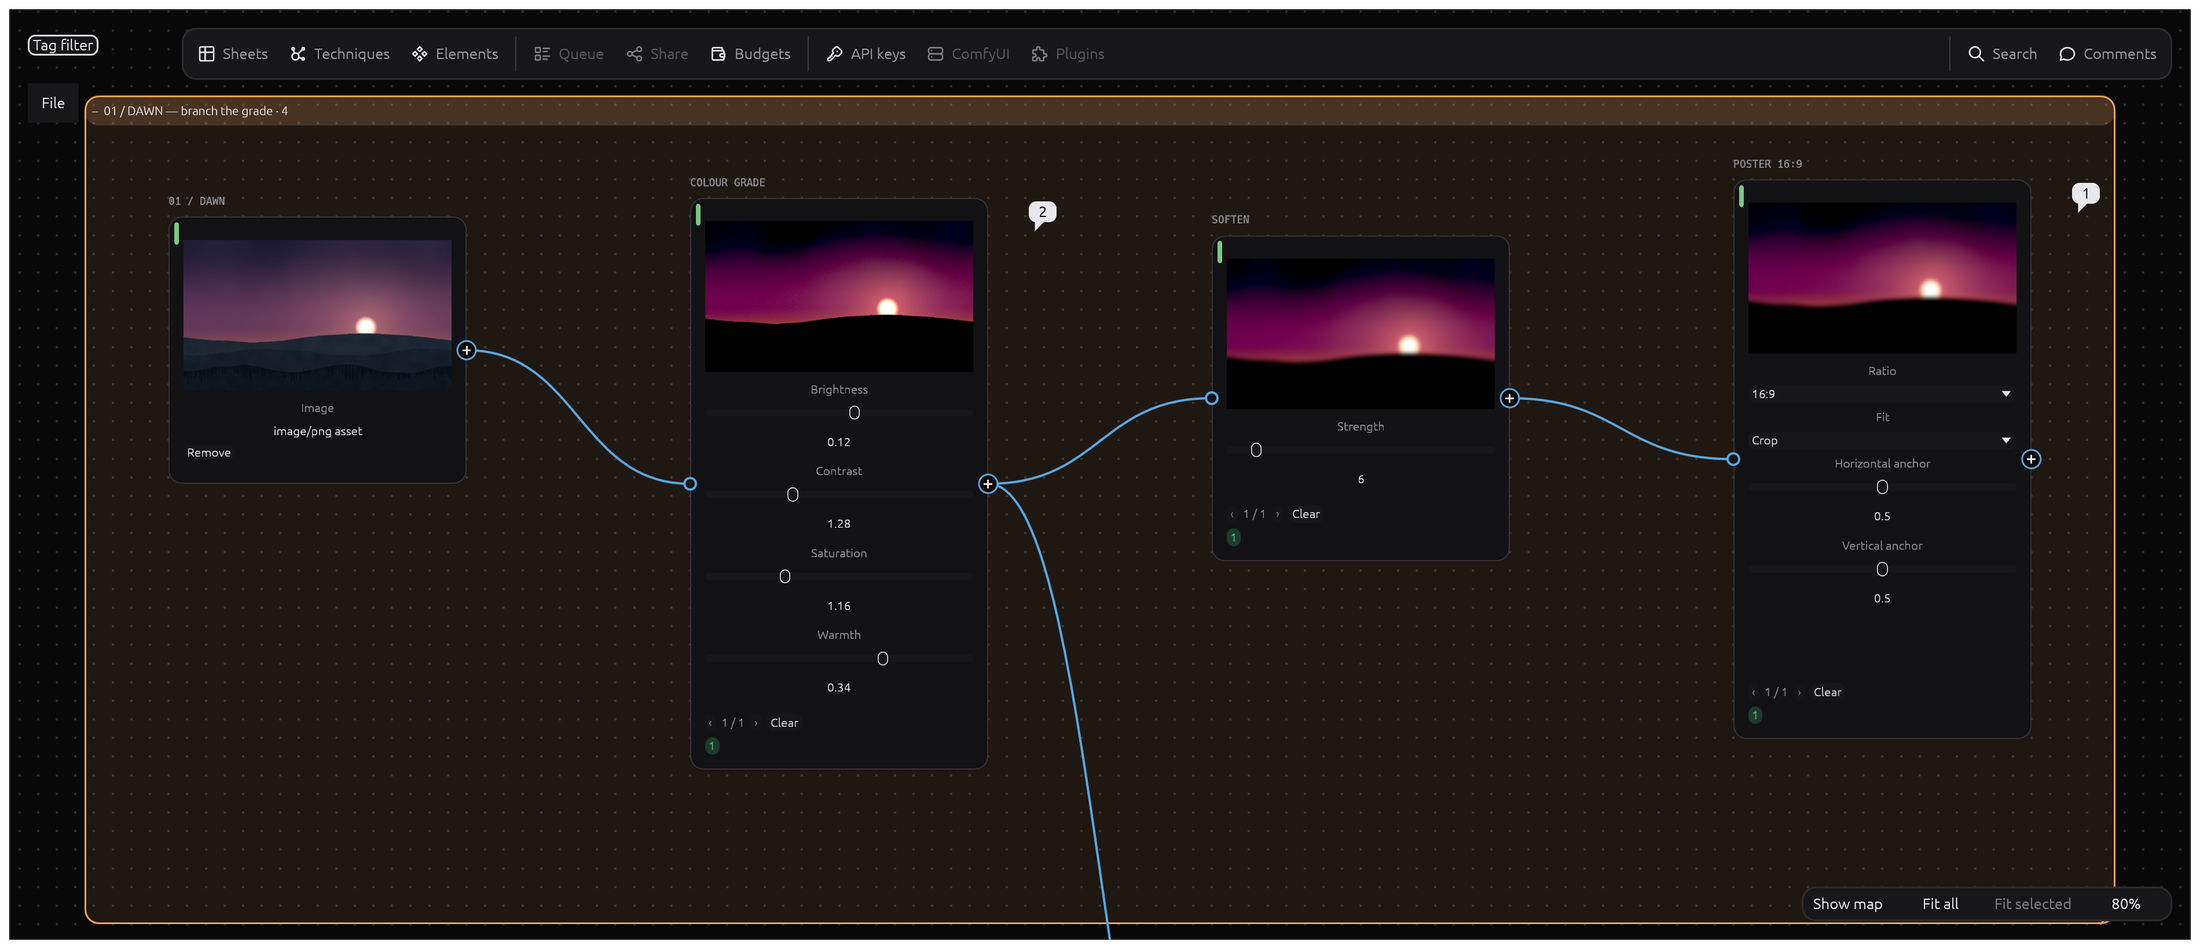
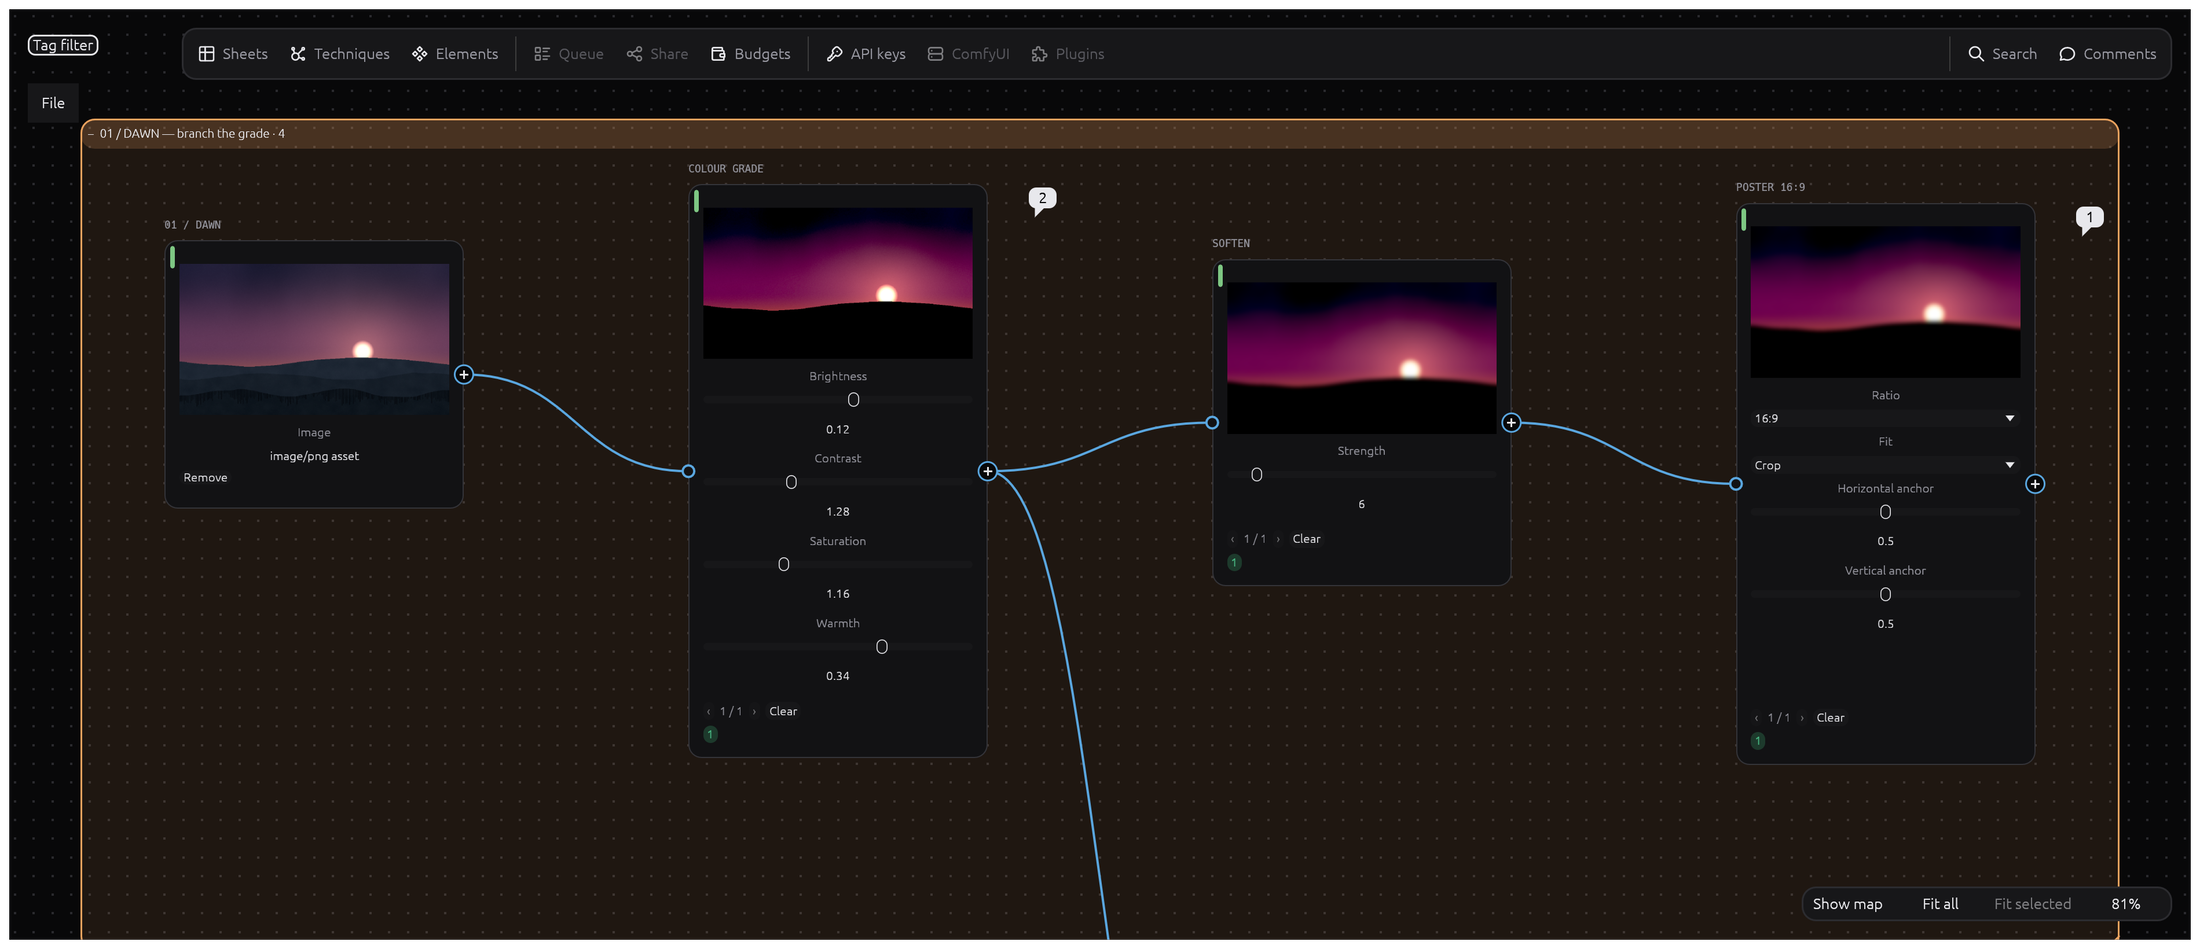
Fit the Colour grade card inside its field and re-render the gallery
tools/eyecandy's structural test caught that the Colour grade card,
with its reserved preview and history rows, ran 28 units past the
bottom of the dawn field. Move it up 40 units (y 100 -> 60), which
keeps it below the 48-unit field header, and re-render all 13 frames.
All 7 eyecandy tests pass, and every re-rendered frame was reviewed
against its caption.

Claude-Session: https://claude.ai/code/session_01QKNswjqGkZXueLKkHKZ4ev

diff --git a/tools/eyecandy/src/scene.rs b/tools/eyecandy/src/scene.rs
@@ -233,7 +233,7 @@ pub fn showcase(plates: &[(&str, Vec<u8>)]) -> Result<Stage, Fail> {
         stage.import_image(key, name, bytes, -1_020.0, y)?;
         stage.title(key, title)?;
     }
-    stage.node(6, "image.grade", -460.0, 100.0)?;
+    stage.node(6, "image.grade", -460.0, 60.0)?;
     stage.title(6, "Colour grade")?;
     stage.number(6, "brightness", 0.12)?;
     stage.number(6, "contrast", 1.28)?;
